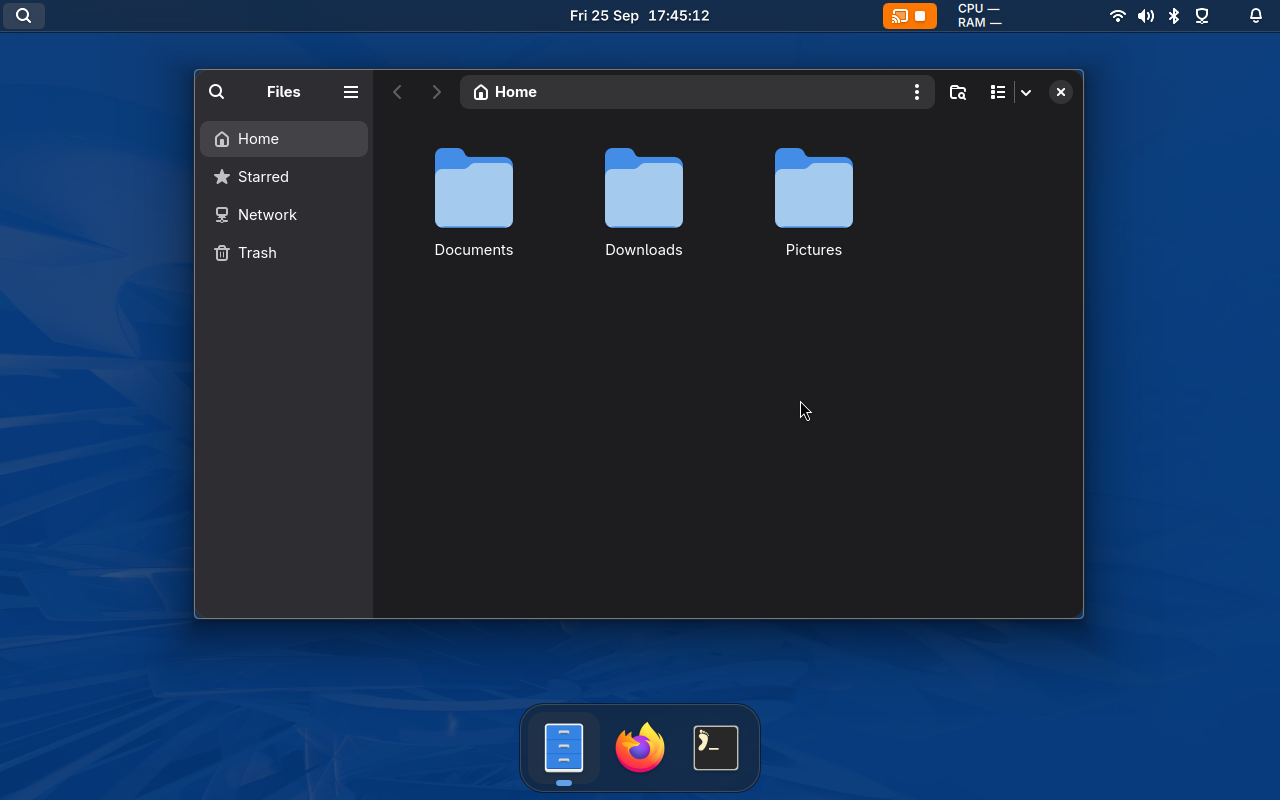
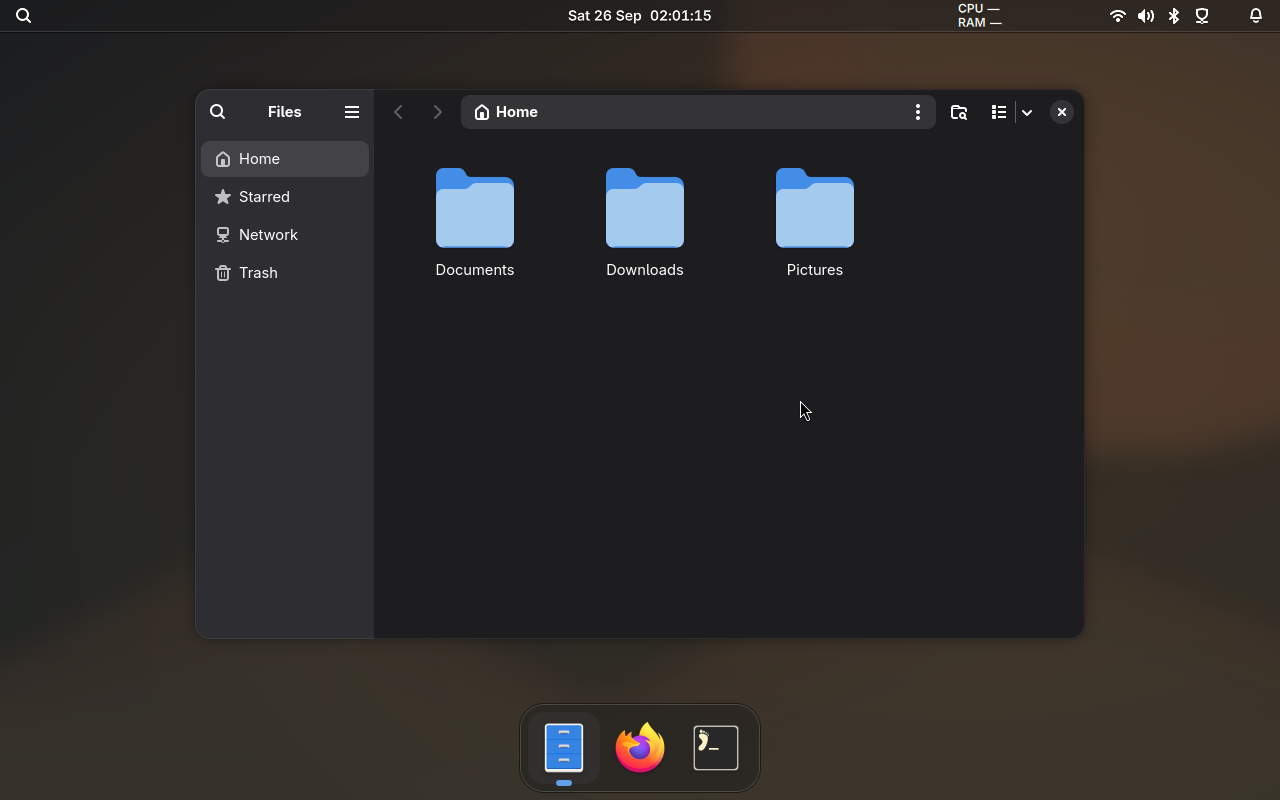
docs: prevent wallpaper layering in examples

diff --git a/docs/guides/window_rules.md b/docs/guides/window_rules.md
@@ -70,6 +70,24 @@ For a layer surface, run `gnoblinctl layer list` while it is running. Use the
 reported namespace as the `layer` value. Layer surfaces do not appear in
 `window list`.
 
+### Keep layer opacity scoped
+
+Layer surfaces can include wallpaper clients. A rule matching only
+`{type = "layer"}` with `opacity` can fade a wallpaper over the desktop
+background, which looks like a color overlay. Match the layer namespace too:
+
+```lua
+gnoblin.window_rule {
+    match = {type = "layer", layer = "^my-panel$"},
+    opacity = 0.9,
+}
+```
+
+Get the exact namespace with `gnoblinctl layer list`. If you run a separate
+wallpaper client, [disable Gnoblin's built-in
+wallpaper](/guides/wallpapers#use-another-wallpaper-client) so the two
+backgrounds do not stack.
+
 ## Write a matcher
 
 The string fields `app_id`, `title`, and `layer` accept **JavaScript regular

diff --git a/AGENTS.md b/AGENTS.md
@@ -113,6 +113,8 @@ rules; put detailed procedures in `CONTRIBUTING.md` or beside the relevant code.
   names; inconsistent page names or paths; and gratuitous criticism of other
   projects. Replace these with real product evidence and concise, accurate
   explanation.
+- A screenshot must show one wallpaper source. When capture setup starts a
+  separate wallpaper client, disable the compositor's built-in wallpaper.
 
 ## Verification and evidence
 
